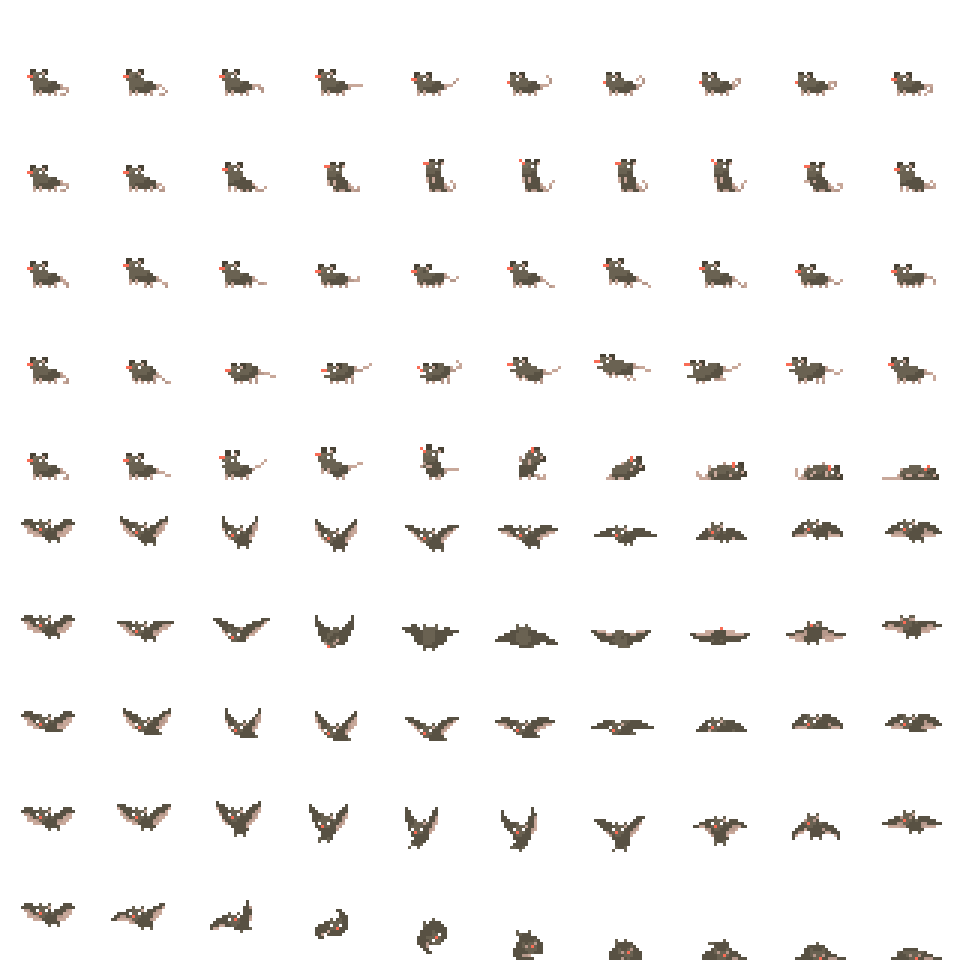
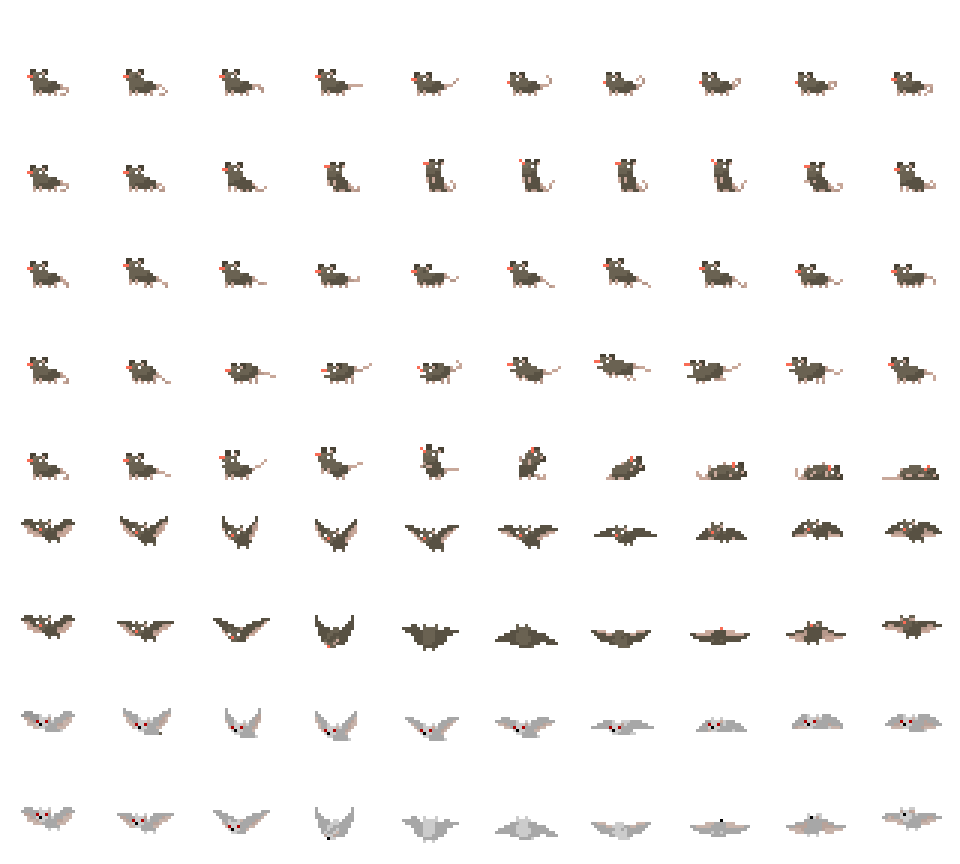
nuevo bat
a

diff --git a/enemigos.py b/enemigos.py
@@ -4,8 +4,10 @@ SPRITE_QUIETO1 = 0
 SPRITE_QUIETO2 = 1
 SPRITE_ANDANDO = 2
 
+BAT_VOLANDO=0
+BAT_FLIP=1
+
 class Rata(NoJugador):
-    "El enemigo 'Sniper'"
     def __init__(self):
         # Invocamos al constructor de la clase padre con la configuracion de este personaje concreto
         NoJugador.__init__(self,'ratAndBat.png','rat_coord.txt', [10, 10, 10], 1.4,   5,False)
@@ -40,7 +42,7 @@ class Rata(NoJugador):
     
     # Aqui vendria la implementacion de la IA segun las posiciones de los jugadores
     # La implementacion de la inteligencia segun este personaje particular
-    def mover_cpu(self,grupoPlataformas,grupoMuros):
+    def mover_cpu(self,grupoPlataformas,grupoMuros,jugador):
        
         plataformas = pygame.sprite.spritecollide(self, grupoPlataformas,False)
         if self.idlecooldown<=0 :
@@ -106,25 +108,44 @@ class Rata(NoJugador):
 
 
 class Bat(NoJugador):
-    "El enemigo 'Sniper'"
     def __init__(self):
         # Invocamos al constructor de la clase padre con la configuracion de este personaje concreto
         NoJugador.__init__(self,'ratAndBat.png','bat_coord.txt', [10, 10], 1.4,  5, True)
         self.numPostura=SPRITE_QUIETO1
         self.angle=math.pi/4
         self.speed=3
+        self.cooldown=100
+        self.flipcount=random.randint(50, 200)
     
-    
+    def changeDir(self):
+        if self.cooldown==0:
+            self.numPostura=BAT_FLIP
+            self.speed=0
+            if self.flipcount==0:
+                self.angle=random.uniform(0, 2*math.pi)
+                self.speed=3
+                self.cooldown=random.randint(50, 1000)
+                self.flipcount=random.randint(50, 200)
+                self.numPostura=BAT_VOLANDO
+            else:
+                self.flipcount-=1
+        else:
+            self.cooldown-=1
+
+
+
 
     
     
     # Aqui vendria la implementacion de la IA segun las posiciones de los jugadores
     # La implementacion de la inteligencia segun este personaje particular
-    def mover_cpu(self,grupoPlataformas,grupoMuros):
-       if self.rect.left<0 or self.rect.right>ANCHO_PANTALLA or self.rect.bottom>ALTO_PANTALLA or self.rect.top<0:
+    def mover_cpu(self,grupoPlataformas,grupoMuros,jugador):
+        if self.rect.left<0 or self.rect.right>ANCHO_PANTALLA or self.rect.bottom>ALTO_PANTALLA or self.rect.top<0:
             self.angle=-self.angle
-       if self.rect.bottom>ALTO_PANTALLA or self.rect.top<0:
-            self.angle=-self.angle-math.pi
+        if self.rect.bottom>ALTO_PANTALLA or self.rect.top<0:
+            print("aaaaaa")
+            self.angle+=math.pi
+        self.changeDir()
         
             
     def actualizarPostura(self):
@@ -152,11 +173,89 @@ class Bat(NoJugador):
         
     def update(self, grupoPlataformas, grupoMuros, tiempo):
         
-        
         self.actualizarPostura()
         
         MiSprite.update(self, tiempo)
         return 
 
+class WhiteBat(NoJugador):
+    def __init__(self):
+        # Invocamos al constructor de la clase padre con la configuracion de este personaje concreto
+        NoJugador.__init__(self,'ratAndBat.png','whiteBat_coord.txt', [10, 10], 1.4,  5, True);
+        self.numPostura=BAT_VOLANDO
+        self.angle=random.uniform(0, 2*math.pi)
+        self.speed=3
+        self.cooldown=100
+        self.flipcount=random.randint(50, 200)
+    
+    def changeDir(self,jugador):
+        #primero calculamos el vector del murcielago al jugador
+        vector_union=(self.rect.center[0]-jugador.rect.center[0],self.rect.center[1]-jugador.rect.center[1])
+        
+        #luego el angulo del mismo, aplicando trigonometria 
+        # pitagoras para la longitud del vector, y arcoseno de la componente x partida por esta para el angulo final
+     
+
+        angulo=math.asin(Personaje.div(self,vector_union[0],math.sqrt(math.pow(vector_union[0],2)+math.pow(vector_union[1],2))))
+        angulo+=math.pi
+        if self.cooldown==0:
+            self.numPostura=BAT_FLIP
+            self.speed=0
+            if self.flipcount==0:
+                self.angle=angulo
+                self.speed=3
+                self.cooldown=random.randint(50, 1000)
+                self.flipcount=random.randint(50, 200)
+                self.numPostura=BAT_VOLANDO
+            else:
+                self.flipcount-=1
+        else:
+            self.cooldown-=1
+
+
+
+
+    
+    
+    # Aqui vendria la implementacion de la IA segun las posiciones de los jugadores
+    # La implementacion de la inteligencia segun este personaje particular
+    def mover_cpu(self,grupoPlataformas,grupoMuros,jugador):
+        if self.rect.left<0 or self.rect.right>ANCHO_PANTALLA or self.rect.bottom>ALTO_PANTALLA or self.rect.top<0:
+            self.angle=-self.angle
+        if self.rect.bottom>ALTO_PANTALLA or self.rect.top<0:
+            print("aaaaaa")
+            self.angle+=math.pi
+        self.changeDir(jugador)
+        
+            
+    def actualizarPostura(self):
+        self.retardoMovimiento -= 1
+        # Miramos si ha pasado el retardo para dibujar una nueva postura
+        if (self.retardoMovimiento < 0):
+            self.retardoMovimiento = self.retardoAnimacion
+            # Si ha pasado, actualizamos la postura
+            self.numImagenPostura += 1
+            if self.numImagenPostura >= len(self.coordenadasHoja[self.numPostura]):
+                self.numImagenPostura = 0;
+            if self.numImagenPostura < 0:
+                self.numImagenPostura = len(self.coordenadasHoja[self.numPostura])-1
+            self.image = self.hoja.subsurface(self.coordenadasHoja[self.numPostura][self.numImagenPostura])
+
+        
+            #  Si no, si mira a la derecha, invertimos esa imagen
+            if self.mirando == DERECHA:
+                self.image = pygame.transform.flip(self.hoja.subsurface(self.coordenadasHoja[self.numPostura][self.numImagenPostura]), 1, 0)    
+            # Si esta mirando a la izquiera, cogemos la porcion de la hoja
+            elif self.mirando == IZQUIERDA:
+                self.image = self.hoja.subsurface(self.coordenadasHoja[self.numPostura][self.numImagenPostura])
+            
+        # Movemos solo a los enemigos que esten en la pantalla
+        
+    def update(self, grupoPlataformas, grupoMuros, tiempo):
+        
+        self.actualizarPostura()
+        
+        MiSprite.update(self, tiempo)
+        return 
 
 

diff --git a/drunken.py b/drunken.py
@@ -21,8 +21,8 @@ class Jugador(Personaje):
     "Cualquier personaje del juego"
     def __init__(self):
         # Invocamos al constructor de la clase padre con la configuracion de este personaje concreto
-        Personaje.__init__(self,'drunkSpriteSheetMid.png','drunkCoord.txt', [2, 3, 1, 3, 3, 1, 3, 3, 3, 3, 3], VELOCIDAD_JUGADOR,  RETARDO_ANIMACION_JUGADOR)
-        #Personaje.__init__(self,'Jugador.png','coordJugador.txt', [6, 12, 6], VELOCIDAD_JUGADOR, VELOCIDAD_SALTO_JUGADOR, RETARDO_ANIMACION_JUGADOR)
+        Personaje.__init__(self,'drunkSpriteSheetMid.png','drunkCoord.txt', [2, 3, 1, 3, 3, 1, 3, 3, 3, 3, 3], VELOCIDAD_JUGADOR,  RETARDO_ANIMACION_JUGADOR,True);
+        #Personaje.__init__(self,'Jugador.png','coordJugador.txt', [6, 12, 6], VELOCIDAD_JUGADOR, VELOCIDAD_SALTO_JUGADOR, RETARDO_ANIMACION_JUGADOR);
         self.potaCount=0
         self.pota=False
         

diff --git a/fase.py b/fase.py
@@ -73,7 +73,7 @@ class Fase(Escena):
         self.grupoPickUps=pygame.sprite.Group()
         self.grupoLadders=pygame.sprite.Group()
         self.rata = Rata()
-        self.bat=Bat()
+        self.bat=WhiteBat()
         self.bat.establecerPosicion((550, 400+ALTO_PANTALLA*2))
         self.grupoEnemigos.add(self.bat)
         self.grupoSpritesDinamicos.add(self.bat)
@@ -128,7 +128,7 @@ class Fase(Escena):
                         #salida = Salida()
 
     def update(self, tiempo):
-        self.bat.mover_cpu(self.grupoPlataformas,self.grupoMuros)
+        self.bat.mover_cpu(self.grupoPlataformas,self.grupoMuros,self.jugador1)
 
         self.grupoSpritesDinamicos.update(self.grupoPlataformas, self.grupoMuros, tiempo)
         self.grupoPickUps.update(self.jugador1,tiempo)
